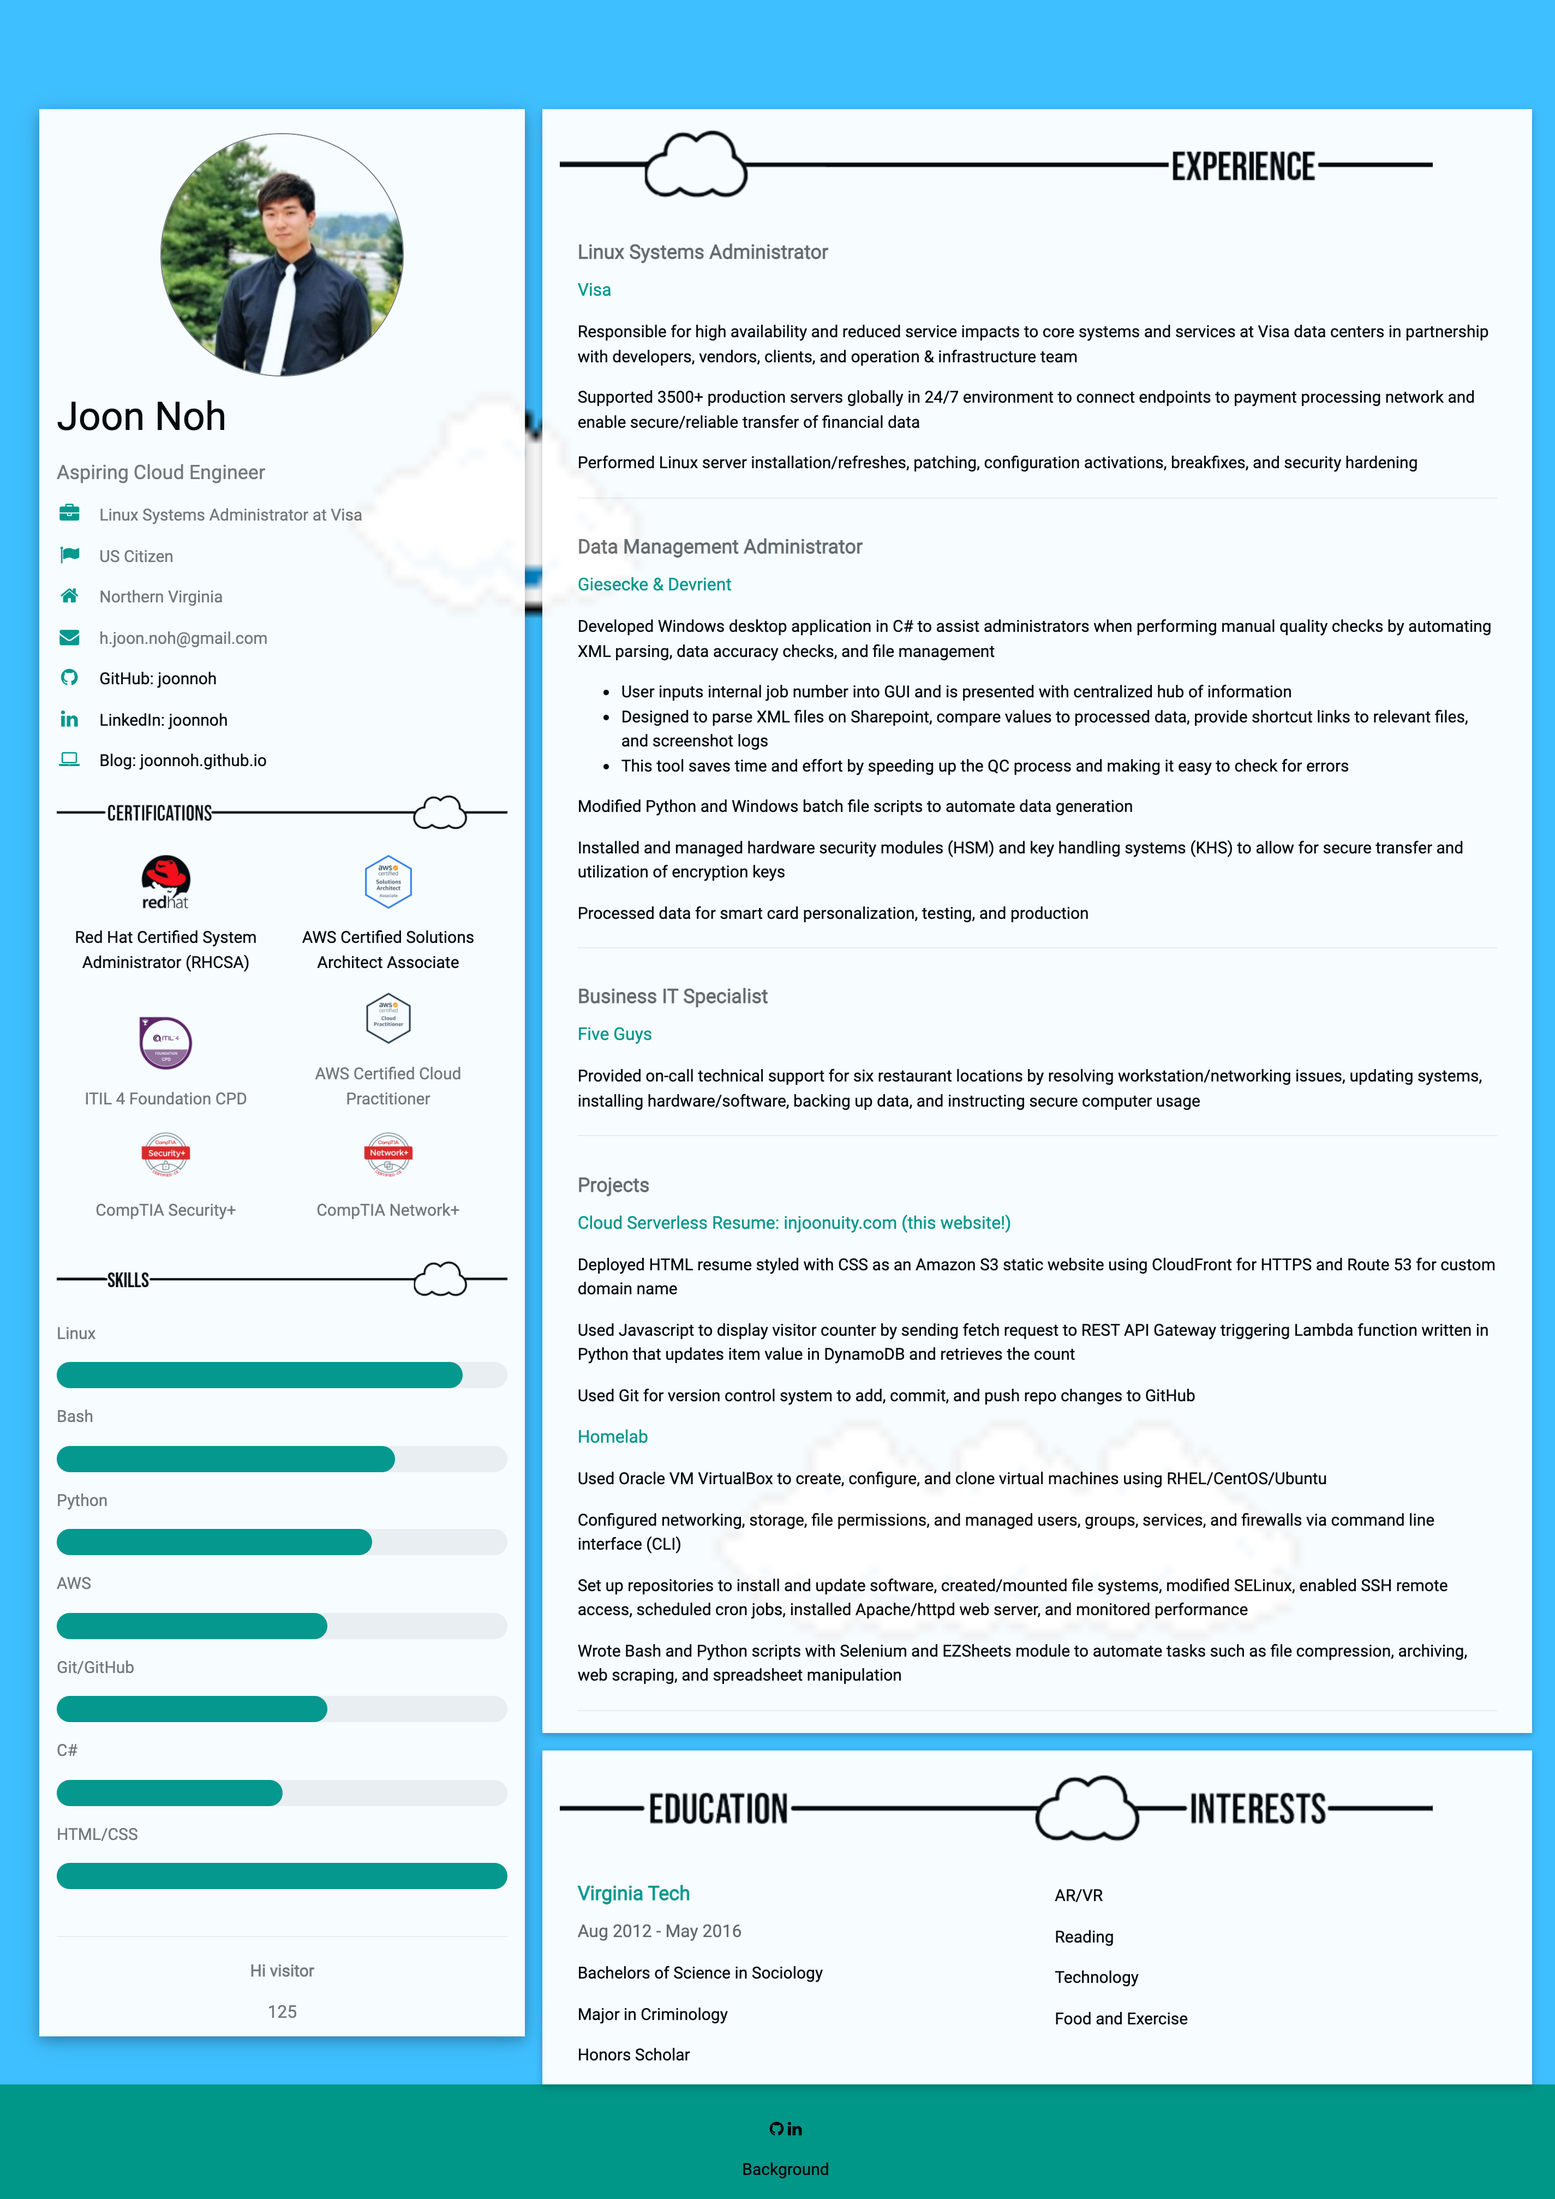
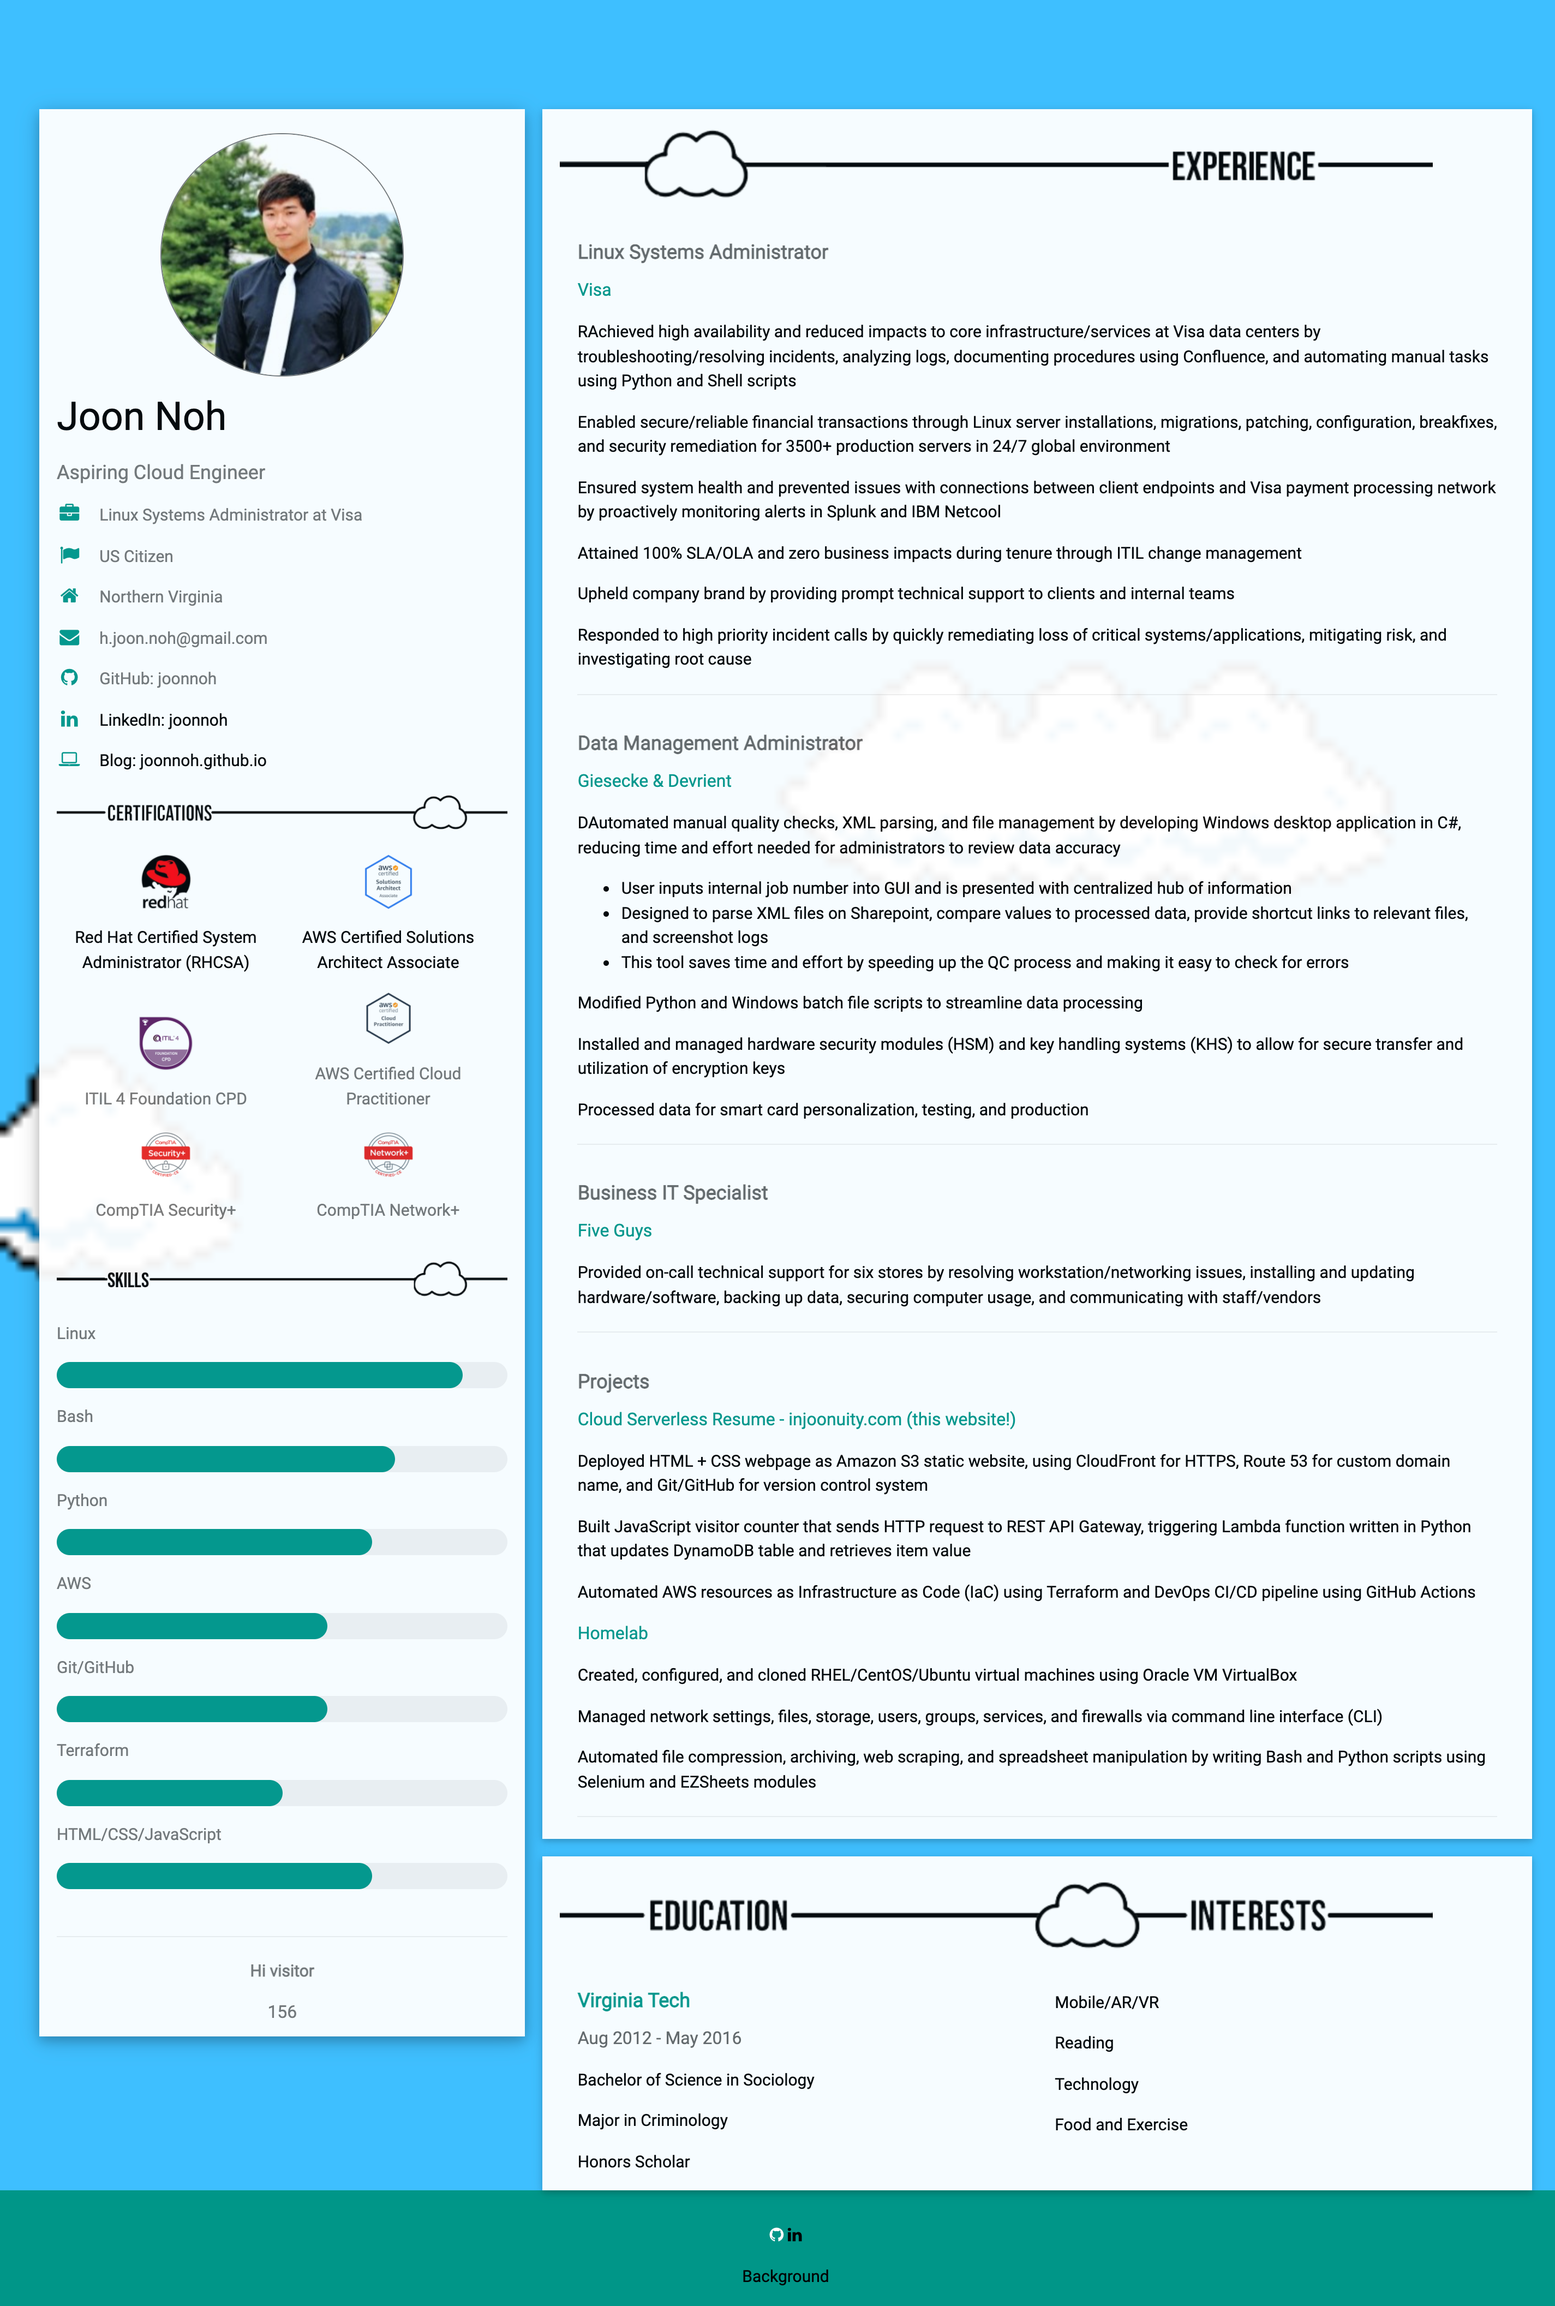
Edit index.html and replace screenshot.png

diff --git a/index.html b/index.html
@@ -142,7 +142,7 @@
             <div class="w3-container">
               <h5 class="w3-opacity"><b>Linux Systems Administrator</b></h5>
               <h6 class="w3-text-teal">Visa</h6>
-              <p>RAchieved high availability and reduced impacts to core infrastructure/services at Visa data centers by troubleshooting/resolving incidents, analyzing logs, documenting procedures using Confluence, and automating manual tasks using Python and Shell scripts</p>
+              <p>Achieved high availability and reduced impacts to core infrastructure/services at Visa data centers by troubleshooting/resolving incidents, analyzing logs, documenting procedures using Confluence, and automating manual tasks using Python and Shell scripts</p>
               <p>Enabled secure/reliable financial transactions through Linux server installations, migrations, patching, configuration, breakfixes, and security remediation for 3500+ production servers in 24/7 global environment</p>
               <p>Ensured system health and prevented issues with connections between client endpoints and Visa payment processing network by proactively monitoring alerts in Splunk and IBM Netcool</p>
               <p>Attained 100% SLA/OLA and zero business impacts during tenure through ITIL change management</p>
@@ -153,7 +153,7 @@
             <div class="w3-container">
               <h5 class="w3-opacity"><b>Data Management Administrator</b></h5>
               <h6 class="w3-text-teal">Giesecke & Devrient</h6>
-              <p>DAutomated manual quality checks, XML parsing, and file management by developing Windows desktop application in C#, reducing time and effort needed for administrators to review data accuracy
+              <p>Automated manual quality checks, XML parsing, and file management by developing Windows desktop application in C#, reducing time and effort needed for administrators to review data accuracy
                 <ul>
                   <li>User inputs internal job number into GUI and is presented with centralized hub of information</li>
                   <li>Designed to parse XML files on Sharepoint, compare values to processed data, provide shortcut links to relevant files, and screenshot logs</li>
